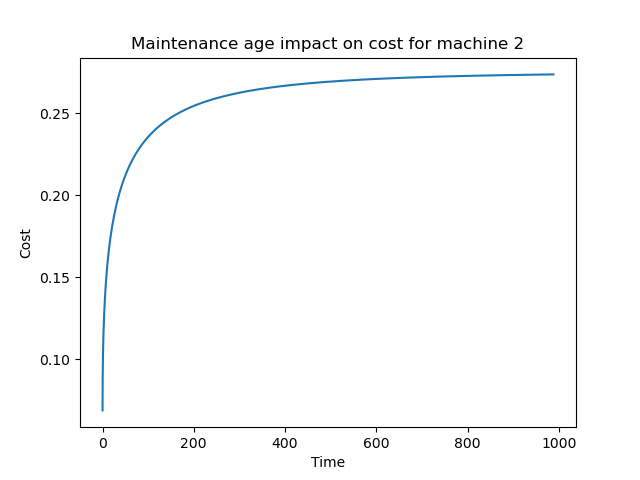
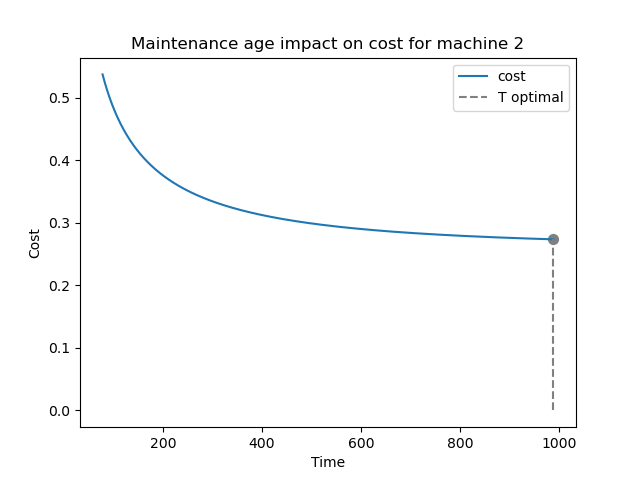
age-based maintenance costs plot

diff --git a/s4917340-Tool.py b/s4917340-Tool.py
@@ -146,11 +146,32 @@ def visualization(KM_data : pd.DataFrame, weibull_data : pd.DataFrame, machine_n
 
 # Create a plot of the cost rates
 def plot_cost_rates(maintenance_data : pd.DataFrame, machine_name):
+    opt_idx = maintenance_data.index[maintenance_data['cost_rate'] == maintenance_data['cost_rate'].min()].values[0]
+    optimal_cost_rate = maintenance_data.iloc[opt_idx]['cost_rate']
+    optimal_t = maintenance_data.iloc[opt_idx]['t']
     fig, ax = plt.subplots()
     ax.set_title(f'Maintenance age impact on cost for machine {machine_name}')
-    ax.plot(maintenance_data['t'], maintenance_data['cost_rate'])
+
+    print(maintenance_data)
+
+    # specify the number of rows to select above and below
+    if machine_name == 1:
+        N = 1000
+    elif machine_name == 2:
+        N = 91000
+    elif machine_name == 3:
+        N = 500
+    
+    # select the rows above and below the specified row to plot
+    data_to_plot = maintenance_data.iloc[max(0, opt_idx-N) : min(opt_idx+N+1, len(maintenance_data))]
+    # data_to_plot = maintenance_data.iloc[opt_idx-N : opt_idx+N]
+    ax.plot(data_to_plot['t'], data_to_plot['cost_rate'], label='cost')
+    ax.scatter(x=optimal_t, y=optimal_cost_rate, marker='.', color='gray', s=200)
+    ax.vlines(x=optimal_t, ymin=0, ymax=optimal_cost_rate, color='gray', linestyles='dashed', label='T optimal')
+    
     ax.set_xlabel('Time')
     ax.set_ylabel('Cost')
+    ax.legend()
     plt.savefig(os.path.join(plot_path, f'{student_nr}-Machine-{machine_name}-Costs.png'))
 
 def create_cost_data(prepared_data : pd.DataFrame, l, k, PM_cost, CM_cost, machine_name):
@@ -163,16 +184,13 @@ def create_cost_data(prepared_data : pd.DataFrame, l, k, PM_cost, CM_cost, machi
     # 3. Calculate the mean cost per cycle (MCPC) for each maintenance age 
     maintenance_data['MCPC'] = CM_cost * maintenance_data['F_t'] + PM_cost * maintenance_data['R_t']
     # 4. Calculate the mean cycle length (MCL) by approximating the area under curve using Riemann sum
+
     delta = 0.01
-    t = maintenance_data['t'].values
-    R_t = maintenance_data['R_t'].values
-    riemann_sum = 0
-    for i in range(len(t)):
-        riemann_sum += R_t[i] * delta
+    cumulative_sum = maintenance_data['R_t'].cumsum()
+    maintenance_data['riemann_sum'] = cumulative_sum * delta
 
     # 5. Calculate the cost rate for each maintenance age
-    maintenance_data['cost_rate'] = maintenance_data['MCPC'] / riemann_sum
-    print(maintenance_data)
+    maintenance_data['cost_rate'] = maintenance_data['MCPC'] / maintenance_data['riemann_sum']
 
     # 6. Create a plot of cost rates
     plot_cost_rates(maintenance_data, machine_name)
@@ -182,7 +200,7 @@ def create_cost_data(prepared_data : pd.DataFrame, l, k, PM_cost, CM_cost, machi
     return optimal['t'].values[0], optimal['cost_rate'].values[0]
 
 def run_analysis():
-    machine_name = 1
+    machine_name = 3
     machine_data = pd.read_csv(os.path.join(data_path, f'{student_nr}-Machine-{machine_name}.csv'))
     prepared_data = data_preparation(machine_data)
     KM_data = create_kaplanmeier_data(prepared_data)
